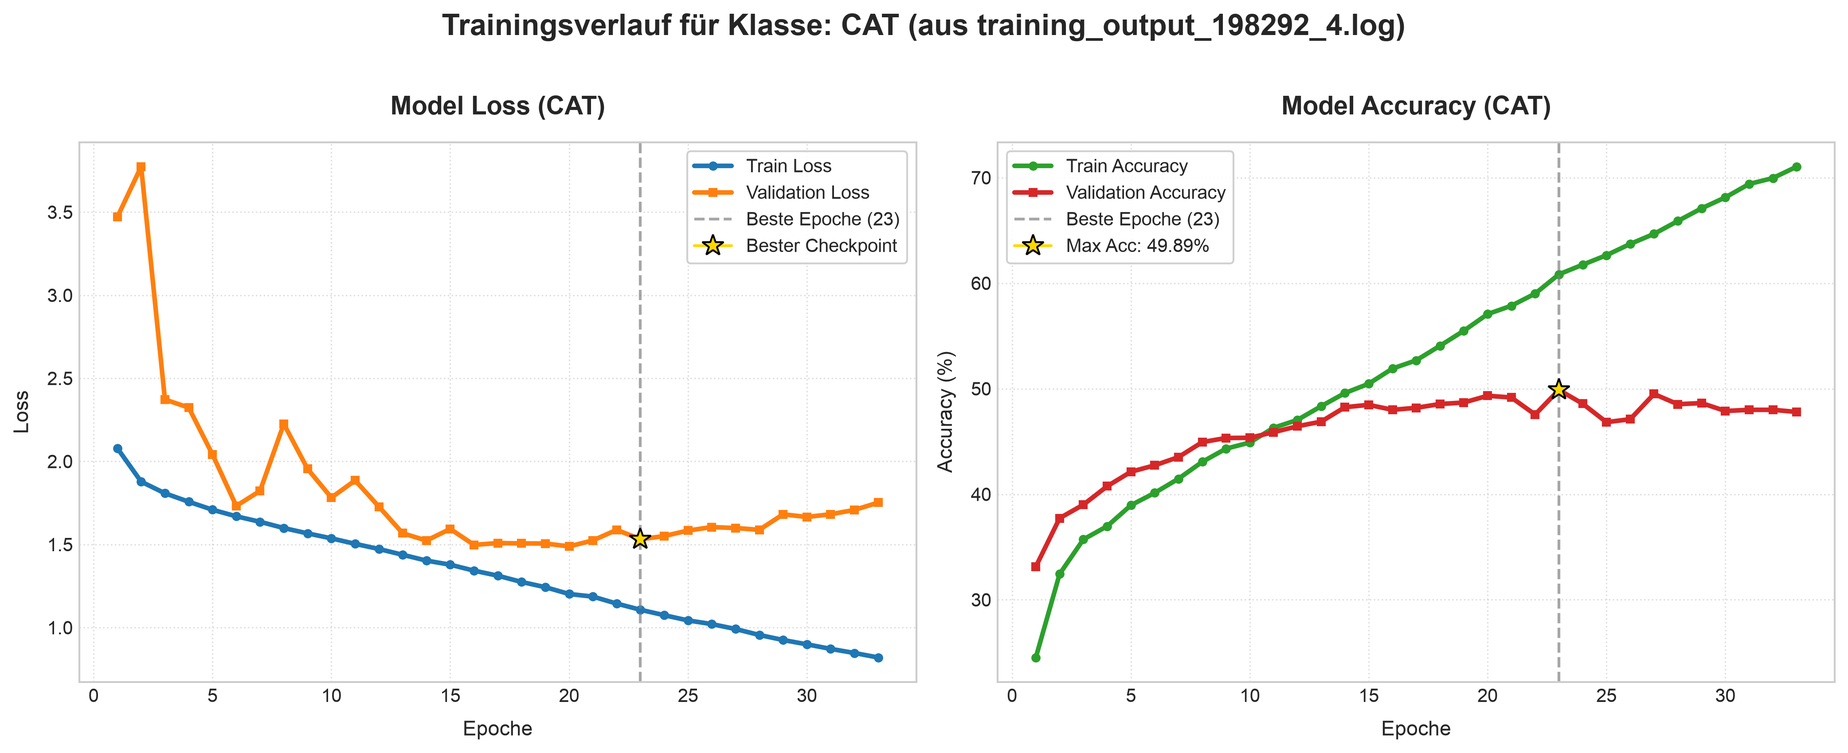
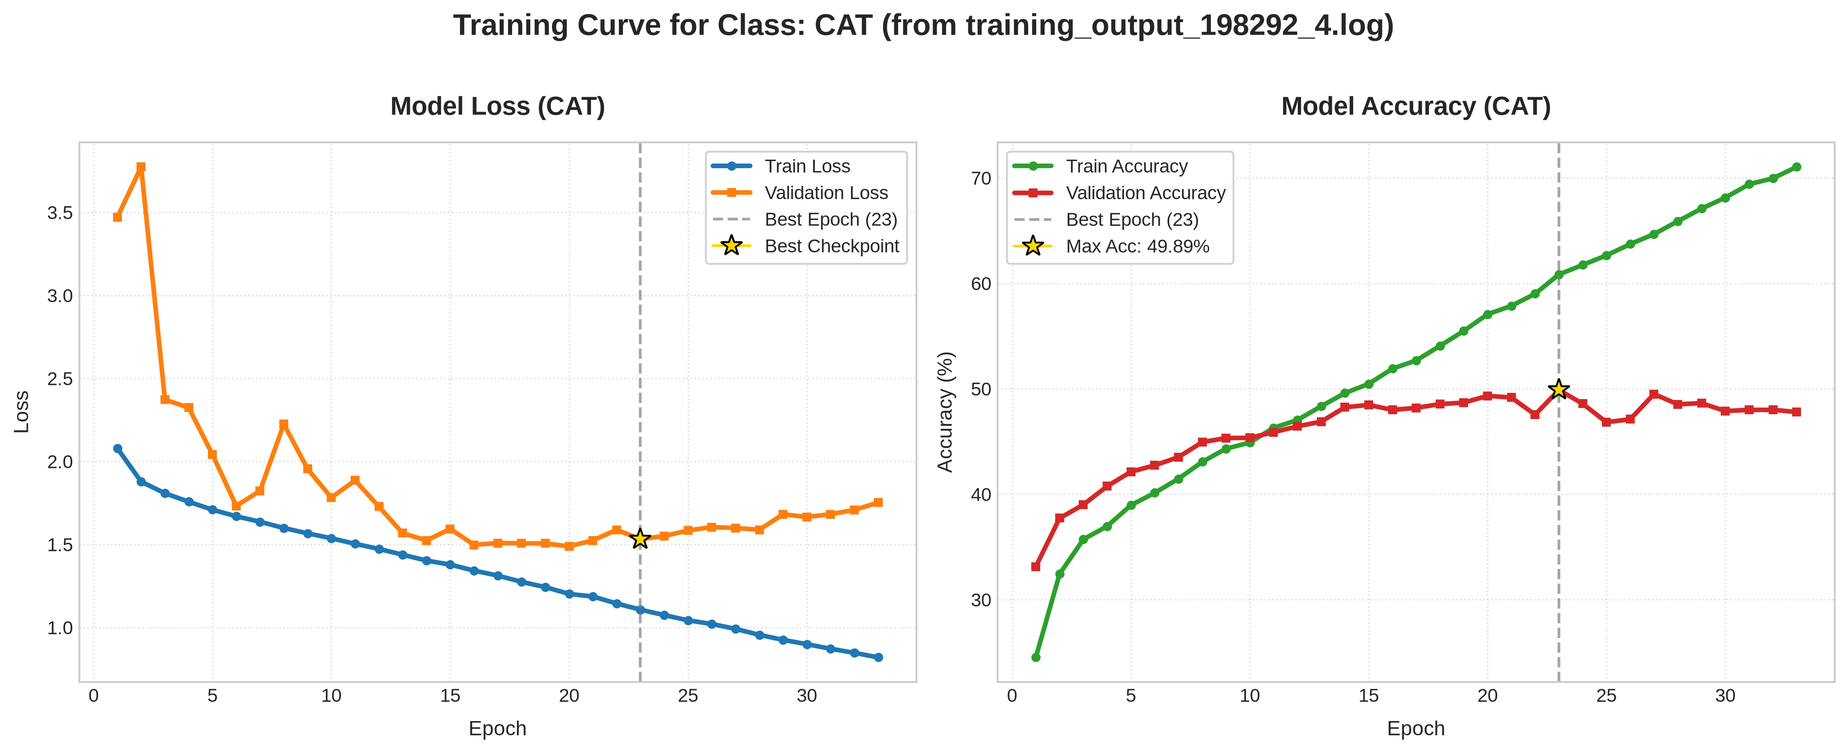
updating EpochLossGraphs for Appendix

diff --git a/Final_Report/sec/test.tex b/Final_Report/sec/test.tex
@@ -1,60 +1,2 @@
-
-1. CONTRADICTION — Final_Report/sec/00_abstract.tex:2 first presents secondary-animal zero masking as part of the implemented pipeline, and the claim is repeated in Final_Report/sec/01_introduction.tex:12-16, Final_Report/sec/03_method.tex:77-84, Final_Report/sec/04_experiments.tex:132, and Final_Report/sec/05_conclusion.tex:4. In the submitted implementation, however, the entire masking block is commented out in Final_Project/detector.py:131-146, so the essay should state that masking was tested but is disabled in the submitted pipeline, or write the code to re enable it at users choice.
---Done
-
-2. METHODOLOGICAL OVERCLAIM — Final_Report/sec/00_abstract.tex:2 first says Grad-CAM confirms that spatial masking suppresses shortcut learning, with related claims in Final_Report/sec/01_introduction.tex:19 and Final_Report/sec/02_related_work.tex:22. Final_Project/generate_xai_panel.py:158-176 sends the original resized image directly to a classifier without YOLO cropping or masking, so these visualizations can diagnose classifier attention but cannot establish the causal effect of the disabled masking intervention; this limited interpretation agrees with Grad-CAM's stated purpose at https://arxiv.org/abs/1610.02391.
---Ignore
-
-3. UNSURE — Final_Report/sec/00_abstract.tex:2 first reports 92.35 percent overall accuracy, and Final_Report/sec/04_experiments.tex:102-119 and Final_Report/sec/05_conclusion.tex:11 report 92.35 percent end-to-end accuracy and macro F1 0.924. No evaluation log, or deterministic evaluation script was found that reproduces these values ?
---> pth eval files
-
-4. INTERNAL AND CODE CONTRADICTION — Final_Report/sec/01_introduction.tex:12 first says image rejection is delegated to detector thresholding, and Final_Report/sec/04_experiments.tex:129 says detections below a confidence threshold are rejected, while Final_Report/sec/03_method.tex:87 explicitly says the operational system uses no classification confidence rejection threshold. Final_Project/detector.py:112-129 reads detector confidence but never compares it with a project-level threshold, so the essay should distinguish any threshold internal to YOLOv6 inference from application-level rejection and should not claim a submitted threshold rule that the code does not implement.
--- wrong
-
-
-5. UNSURE — Final_Report/sec/01_introduction.tex:22 says all trained checkpoints and reproducibility scripts are publicly available, but  cat_scratch.pth and  dog_scratch.pth are not present,nor does it state where those files can be downloaded. README should provide stable checkpoint URLs and hashes, or narrow the claim to what actually distributed.
---> gitignore but uploaded!
-
-6. UNSURE — Final_Report/sec/03_method.tex:64 calls 15 and 16 COCO category IDs, whereas Final_Project/detector.py:39-41 uses them as zero-based YOLOv6 class indices. The values are correct for cat and dog in YOLOv6's zero-based class list, so this is terminology ambiguity rather than a demonstrated pipeline error; write "zero-based YOLOv6 COCO class indices 15 and 16" and cite https://github.com/meituan/YOLOv6/blob/main/data/coco.yaml.
---rewrote
-
-7. MATH DESCRIPTION ERROR — Final_Report/sec/03_method.tex:80-84 uses a universal condition in the masking equation, which zeros a pixel only when it belongs to every secondary box. The surrounding prose clearly intends the union of secondary detections, so the condition should use an existential statement, meaning that there exists a secondary box j not equal to the selected target i star that contains the pixel.
---good spot
-
-8. CONTRADICTION — Final_Report/sec/03_method.tex:116-139 presents a taxonomy containing classes such as Persian and Afghan Hound, but Final_Project/train.py:23-24 and AnimalRecognitionChallenge/inference.py:47-67 define the submitted taxonomy with classes including Ragdoll, Sphynx, Pug, Shiba Inu, Samoyed, and Rottweiler. Table 1 should use the exact inference mapping.
---> good spot
-
-9. FOR THE SUBMITTED TRAINER; UNSURE FOR UNRETAINED PREPROCESSING — Final_Report/sec/03_method.tex:150 and Final_Report/sec/04_experiments.tex:29 claim a stratified 80/20 split with perceptual-hash duplicate control, but Final_Project/train.py:253-257 performs an unseeded random shuffle and slice separately for each species, and no perceptual-hashing implementation or split manifest was found. 
---> ignore
-
-10. UNSURE, DESCRIPTION MISMATCH — Final_Report/sec/03_method.tex:152 and Final_Report/sec/03_method.tex:187 describe random horizontal flipping with p=0.5 and Gaussian blur with p=0.2, but Final_Project/train.py:65-70 appends one transformed copy for every source image whenever an augmentation flag is enabled. Unless a different retained trainer generated the reported runs, mirror, blur, and CropMix should be described as dataset-expansion modes rather than per-sample Bernoulli transforms.
--- args
-
-11. MATH DESCRIPTION ERROR — Final_Report/sec/03_method.tex:152 says CropMix selects an area fraction r uniformly between 0.6 and 0.9, but Final_Project/train.py:104-105 applies r independently as the crop's width fraction and height fraction. The area fraction is r squared, from 0.36 to 0.81.
---done
-
-12. IMPLEMENTATION CONTRADICTION — Final_Report/sec/03_method.tex:165 and Final_Report/sec/04_experiments.tex:212 claim cosine annealing from 1e-3 to 1e-6, but Final_Project/train.py:275-276 omits eta_min and therefore uses PyTorch's default of zero. The shell scripts also pass several starting learning rates rather than one universal value, so the essay should report the actual starting rate for each cited run and cosine annealing toward zero, as documented at https://docs.pytorch.org/docs/stable/generated/torch.optim.lr_scheduler.CosineAnnealingLR.html.
---> done
-
-13. UNSURE — Final_Report/sec/04_experiments.tex:65 says the epoch sweep used 100, 1000, 3000 epochs, while Final_Project/run_training.sh:18-64 and Final_Project/run_training_data.sh:18-65 contain configured runs of 100, 200, 1000, 10000 epochs, but no 3000 epoch command. A 3000 epoch run could have been launched manually? 
---> multiple runs... ignore
-
-14. DESCRIPTION-IMPLEMENTATION MISMATCH — Final_Report/sec/04_experiments.tex:68 lists rotation among the active species-classifier augmentations, but no rotation operation exists in Final_Project/train.py. Rotation should be removed from the description of the submitted trainer.
---> deleted as not suffiecient and basic bug
-
-15. CONTRADICTION — Final_Report/sec/04_experiments.tex:71 says training also stops when the train-validation accuracy gap exceeds 7 percent, but Final_Project/train.py:199-218 implements only patience-based stopping when validation accuracy fails to improve. The 7 percent rule should be removed, labeled as manual monitoring, or implemented and tied to the reported runs.
---> ignore
-
-16. CONTRADICTION — Final_Report/sec/04_experiments.tex:132 says masking is bypassed when a secondary animal occupies more than 40 percent of the crop, but Final_Project/detector.py contains no overlap-ratio calculation or 40 percent condition and its masking code is disabled. This rule should be removed from the implemented-method description or clearly labeled as proposed work.
---> ignore
-
-17. FIGURE-CAPTION ERROR — Final_Report/sec/04_experiments.tex:149-154 says Figure 4 shows a non-Pug target predicted as Pug with 87.66 percent confidence, but Figure 4 in final_paper.pdf page 7 labels the example "GT: Pug, Pred: Samoyed (85.6%)" it looks more like Pug occlusion example in Figure 7 .
-
-18. UNSURE — Final_Report/sec/04_experiments.tex:174-179 gives stage times of 8.12+ 112.45+ 14.30+ 65.76 = 200.63 ms, while Final_Report/sec/04_experiments.tex:190-193 presents pie-chart values of 5.18 + 4.65 + 166.12 + 24.64 = 200.59 ms. The difference can be rounding or process gaps, but the different stage allocation is unexplained and may represent two profiling protocols; the essay should identify the protocol and hardware for each chart or retain only one verified chart with consistent labels.
--- done
-
-19. NOT A CONTRADICTION — Final_Report/sec/04_experiments.tex:212 correctly states that PyTorch 2.6 changed the default behavior of torch.load, and Final_Project/animalClassifier.py:31 explicitly uses weights_only=False. The technical statement should remain, but the essay should replace or supplement the older generic PyTorch citation with https://docs.pytorch.org/docs/stable/notes/serialization.html and state that weights_only=False is appropriate only for trusted checkpoint files.
--- done
-
-20. NOT A CONTRADICTION — Final_Report/main.bib:113-117 cites MegaDetector V6 from Microsoft AI for Good Lab, and current official Microsoft documentation confirms MegaDetectorV6 at https://microsoft.github.io/MegaDetector/ and lists its variants at https://microsoft.github.io/MegaDetector/model_zoo/. The earlier concern resulted from checking the legacy agentmorris repository; the bibliography entry is substantively valid, although it should include the official URL and an access date or cite the specific release artifact required by the report style.
--- done 
+\section{Test}
+\label{sec:test}

diff --git a/Final_Report/sec/06_appendixx.tex b/Final_Report/sec/06_appendixx.tex
@@ -1,8 +1,4 @@
-\section{Appendix}
-\label{sec:appendix}
-
-\subsection{Author Contributions}
-\label{sec:contributions}
+\subsection{Contribution}
 
 To ensure full transparency, the individual contributions of each team member are detailed below:
 
@@ -65,12 +61,37 @@ To ensure full transparency, the individual contributions of each team member ar
         \end{itemize}
     \end{itemize}
 
-    \item \textbf{Ivan Kazakov:}
+
     \begin{itemize}
-        \item Handled data acquisition for the largest dataset in Kaggle.
-        \item Coded the initial model for EfficientNetV2-S and conducted related research \cite{tan2021efficientnetv2}.
-        \item Handled data acquisition, dataset cleaning, and the preprocessing pipeline.
-        \item Co-wrote the final paper section for the Detector and Animal Classifier \cite{li2022yolov6}.
+        \item \textbf{Ivan Kazakov:}
+        \begin{itemize}
+            \item \textbf{Dataset Acquisition \& Curation:}
+            \begin{itemize}
+                \item Sourced core breed datasets after the initial API approach proved insufficient: the Kaggle cat-breed dataset ($\sim$1,000 images/class), the Tsinghua Dogs dataset, and a Dalmatian subset from an additional Kaggle dog dataset.
+                \item Assembled and published the merged $\sim$26k-image / 20-class training dataset on Kaggle.
+            \end{itemize}
+            \item \textbf{Training Pipeline \& Scaling:}
+            \begin{itemize}
+                \item Collaborated on the EfficientNetV2-S training pipeline development.
+                \item Scaled training infrastructure from a single P100 to 2x T4 GPUs using DataParallel; identified, diagnosed, and mitigated CPU-side image decoding bottlenecks.
+            \end{itemize}
+            \item \textbf{Model Development \& Experiments:}
+            \begin{itemize}
+                \item Trained the combined 20-class model achieving 84.9\% test accuracy (macro F1 0.829) with pretrained initialization, as well as the required from-scratch baseline (80 epochs, 78.1\% / 0.752), providing the comparative results for the report.
+                \item Co-implemented the species-split architecture (separate cat and dog models via class presets) and analyzed the dogs-vs-cats transfer asymmetry alongside its ImageNet class-composition background.
+                \item Evaluated a community cat-breed checkpoint as an alternative initialization strategy and integrated a robust checkpoint-format loader.
+            \end{itemize}
+            \item \textbf{System Integration \& Inference:}
+            \begin{itemize}
+                \item Supported the end-to-end evaluation and error analysis framework that contributed to securing the group's first-place challenge submission (73.28\%).
+            \end{itemize}
+            \item \textbf{Report \& Presentation:}
+            \begin{itemize}
+                \item Delivered presentation segments covering data acquisition, training setups, and the pretrained-vs-scratch comparison; produced corresponding training-curve and performance comparison figures.
+                \item Cowrote the System Architecture, Classification Model, and Integration Findings part of the final paper in the experiments and Related Work section
+                \item Published both pipeline editions (combined and species-split) as fully documented repositories and notebooks.
+            \end{itemize}
+        \end{itemize}
     \end{itemize}
 
     \item \textbf{Huang Ziyang:}
@@ -81,12 +102,128 @@ To ensure full transparency, the individual contributions of each team member ar
         \item Created first Draft of the README.md
     \end{itemize}
 \end{itemize}
+%
 
 \subsection{Code and Environment Reproducibility}
 \label{sec:code_reproducibility}
 
 The complete source code, trained model checkpoints, and inference scripts are hosted in our repository:
 \begin{center}
-    \url{https://github.com/your-org/your-repo}
+    \href{https://github.com/NordlichtS/CVDL26-drop-table-catdogs}{CVDL26-drop-table-catdogs}
 \end{center}
 Please refer to the repository README file for environment setup instructions and data preparation steps.
+
+
+\subsection{Detailed Training History Curves}
+\label{sec:appendix_curves}
+
+This appendix presents the full training and validation loss alongside accuracy progression curves across all seven experimental configurations for both Cat and Dog datasets.
+
+\begin{figure*}[htbp]
+    \centering
+    % Task 1: Baseline (Standard)
+    \begin{subfigure}[b]{0.48\textwidth}
+        \centering
+        \includegraphics[width=\textwidth]{../Epoch/loss_Graphs/training_output_198292_1_dog.png}
+        \caption{Task 1: Dog Baseline ($\text{LR}=1\times 10^{-5}$, 100 Ep.)}
+    \end{subfigure}
+    \hfill
+    \begin{subfigure}[b]{0.48\textwidth}
+        \centering
+        \includegraphics[width=\textwidth]{../Epoch/loss_Graphs/training_output_198292_1_cat.png}
+        \caption{Task 1: Cat Baseline ($\text{LR}=1\times 10^{-5}$, 100 Ep.)}
+    \end{subfigure}
+    
+    \vspace{0.3cm}
+    
+    % Task 2: Balanced Weights
+    \begin{subfigure}[b]{0.48\textwidth}
+        \centering
+        \includegraphics[width=\textwidth]{../Epoch/loss_Graphs/training_output_198292_2_dog.png}
+        \caption{Task 2: Dog Balanced Weights ($\text{LR}=1\times 10^{-5}$, 100 Ep.)}
+    \end{subfigure}
+    \hfill
+    \begin{subfigure}[b]{0.48\textwidth}
+        \centering
+        \includegraphics[width=\textwidth]{../Epoch/loss_Graphs/training_output_198292_2_cat.png}
+        \caption{Task 2: Cat Balanced Weights ($\text{LR}=1\times 10^{-5}$, 100 Ep.)}
+    \end{subfigure}
+
+    \vspace{0.3cm}
+
+    % Task 3: Blur
+    \begin{subfigure}[b]{0.48\textwidth}
+        \centering
+        \includegraphics[width=\textwidth]{../Epoch/loss_Graphs/training_output_198292_3_dog.png}
+        \caption{Task 3: Dog Blur ($\text{LR}=1\times 10^{-5}$, 100 Ep., $82.96\%$)}
+    \end{subfigure}
+    \hfill
+    \begin{subfigure}[b]{0.48\textwidth}
+        \centering
+        \includegraphics[width=\textwidth]{../Epoch/loss_Graphs/training_output_198292_3_cat.png}
+        \caption{Task 3: Cat Blur ($\text{LR}=1\times 10^{-5}$, 100 Ep., $47.13\%$)}
+    \end{subfigure}
+
+    \vspace{0.3cm}
+
+    % Task 4: Mirror
+    \begin{subfigure}[b]{0.48\textwidth}
+        \centering
+        \includegraphics[width=\textwidth]{../Epoch/loss_Graphs/training_output_198292_4_dog.png}
+        \caption{Task 4: Dog Mirror ($\text{LR}=1\times 10^{-5}$, 100 Ep.)}
+    \end{subfigure}
+    \hfill
+    \begin{subfigure}[b]{0.48\textwidth}
+        \centering
+        \includegraphics[width=\textwidth]{../Epoch/loss_Graphs/training_output_198292_4_cat.png}
+        \caption{Task 4: Cat Mirror ($\text{LR}=1\times 10^{-5}$, 100 Ep., $49.89\%$)}
+    \end{subfigure}
+
+    \vspace{0.3cm}
+
+    % Task 5: CropMix
+    \begin{subfigure}[b]{0.48\textwidth}
+        \centering
+        \includegraphics[width=\textwidth]{../Epoch/loss_Graphs/training_output_198292_5_dog.png}
+        \caption{Task 5: Dog CropMix ($\text{LR}=1\times 10^{-5}$, 100 Ep., $84.99\%$)}
+    \end{subfigure}
+    \hfill
+    \begin{subfigure}[b]{0.48\textwidth}
+        \centering
+        \includegraphics[width=\textwidth]{../Epoch/loss_Graphs/training_output_198292_5_cat.png}
+        \caption{Task 5: Cat CropMix ($\text{LR}=1\times 10^{-5}$, 100 Ep.)}
+    \end{subfigure}
+
+    \vspace{0.3cm}
+
+    % Task 6: All Augmentations Combined
+    \begin{subfigure}[b]{0.48\textwidth}
+        \centering
+        \includegraphics[width=\textwidth]{../Epoch/loss_Graphs/training_output_198292_6_dog.png}
+        \caption{Task 6: Dog All Augs ($\text{LR}=1\times 10^{-5}$, 100 Ep.)}
+    \end{subfigure}
+    \hfill
+    \begin{subfigure}[b]{0.48\textwidth}
+        \centering
+        \includegraphics[width=\textwidth]{../Epoch/loss_Graphs/training_output_198292_6_cat.png}
+        \caption{Task 6: Cat All Augs ($\text{LR}=1\times 10^{-5}$, 100 Ep., $53.73\%$)}
+    \end{subfigure}
+
+    \vspace{0.3cm}
+
+    % Task 7: Long Run Baseline
+    \begin{subfigure}[b]{0.48\textwidth}
+        \centering
+        \includegraphics[width=\textwidth]{../Epoch/loss_Graphs/training_output_198292_7_dog.png}
+        \caption{Task 7: Dog Extended Baseline ($\text{LR}=5\times 10^{-6}$, 1000 Ep., $78.66\%$)}
+    \end{subfigure}
+    \hfill
+    \begin{subfigure}[b]{0.48\textwidth}
+        \centering
+        \includegraphics[width=\textwidth]{../Epoch/loss_Graphs/training_output_198292_7_cat.png}
+        \caption{Task 7: Cat Extended Baseline ($\text{LR}=5\times 10^{-6}$, 1000 Ep., $46.13\%$)}
+    \end{subfigure}
+    
+    \caption{Comprehensive comparison of training loss and accuracy dynamics across all Cat and Dog classification runs (Tasks 1--7) under various augmentation strategies and learning rates (all models trained from uninitialized weights).}
+    \label{fig:appendix_training_curves}
+\end{figure*}

diff --git a/Final_Project/graph_loss_epoch.py b/Final_Project/graph_loss_epoch.py
@@ -8,7 +8,8 @@ output_folder = os.path.join("Epoch", "loss_Graphs")
 os.makedirs(output_folder, exist_ok=True)
 
 # 2. Alle Logdateien im aktuellen Ordner suchen, die mit "training_output_" anfangen
-log_files = [f for f in os.listdir('./') if f.startswith('training_output_') and f.endswith('.log')]
+# In Zeile 11:
+log_files = [f for f in os.listdir('./TrainingLogs') if f.startswith('training_output_') and f.endswith('.log')]
 
 if not log_files:
     print("Keine Logdateien mit dem Präfix 'training_output_' im aktuellen Ordner gefunden.")
@@ -32,7 +33,8 @@ print(f"Gefundene Logdateien: {log_files}\nStarte Verarbeitung...")
 
 for log_file in log_files:
     # Dateiinhalt einlesen
-    with open(log_file, 'r', encoding='utf-8') as f:
+
+    with open(os.path.join('./TrainingLogs', log_file), 'r', encoding='utf-8') as f:
         content = f.read()
     
     matches = pattern.findall(content)
@@ -79,11 +81,11 @@ for log_file in log_files:
         best_val_acc = df.loc[best_val_idx, 'val_acc']
         
         # Beste Epoche als vertikale Linie und goldener Stern einzeichnen (Präsentations-Tipp 2)
-        ax1.axvline(x=best_epoch, color='gray', linestyle='--', alpha=0.7, label=f'Beste Epoche ({best_epoch})')
-        ax1.plot(best_epoch, best_val_loss, marker='*', markersize=12, color='gold', markeredgecolor='black', label='Bester Checkpoint')
+        ax1.axvline(x=best_epoch, color='gray', linestyle='--', alpha=0.7, label=f'Best Epoch ({best_epoch})')
+        ax1.plot(best_epoch, best_val_loss, marker='*', markersize=12, color='gold', markeredgecolor='black', label='Best Checkpoint')
         
         ax1.set_title(f"Model Loss ({species})", fontsize=14, fontweight='bold', pad=15)
-        ax1.set_xlabel("Epoche", fontsize=11, labelpad=8)
+        ax1.set_xlabel("Epoch", fontsize=11, labelpad=8)
         ax1.set_ylabel("Loss", fontsize=11, labelpad=8)
         ax1.legend(frameon=True, facecolor='white', framealpha=0.9, fontsize=10)
         ax1.grid(True, linestyle=":", alpha=0.6)
@@ -92,16 +94,16 @@ for log_file in log_files:
         ax2.plot(df['epoch'], df['train_acc'], label="Train Accuracy", color=colors['train_acc'], linewidth=2.5, marker='o', markersize=4)
         ax2.plot(df['epoch'], df['val_acc'], label="Validation Accuracy", color=colors['val_acc'], linewidth=2.5, marker='s', markersize=4)
         
-        ax2.axvline(x=best_epoch, color='gray', linestyle='--', alpha=0.7, label=f'Beste Epoche ({best_epoch})')
+        ax2.axvline(x=best_epoch, color='gray', linestyle='--', alpha=0.7, label=f'Best Epoch ({best_epoch})')
         ax2.plot(best_epoch, best_val_acc, marker='*', markersize=12, color='gold', markeredgecolor='black', label=f'Max Acc: {best_val_acc:.2f}%')
         
         ax2.set_title(f"Model Accuracy ({species})", fontsize=14, fontweight='bold', pad=15)
-        ax2.set_xlabel("Epoche", fontsize=11, labelpad=8)
+        ax2.set_xlabel("Epoch", fontsize=11, labelpad=8)
         ax2.set_ylabel("Accuracy (%)", fontsize=11, labelpad=8)
         ax2.legend(frameon=True, facecolor='white', framealpha=0.9, fontsize=10)
         ax2.grid(True, linestyle=":", alpha=0.6)
         
-        plt.suptitle(f"Trainingsverlauf für Klasse: {species} (aus {log_file})", fontsize=16, fontweight='bold', y=1.02)
+        plt.suptitle(f"Training Curve for Class: {species} (from {log_file})", fontsize=16, fontweight='bold', y=1.02)
         plt.tight_layout()
         
         # Dynamisch im Zielordner speichern

diff --git a/Final_Report/main.tex b/Final_Report/main.tex
@@ -54,7 +54,6 @@ Marc Koester\\
 \input{sec/04_experiments}
 \input{sec/05_conclusion}
 
-
 {
     \small
     \bibliographystyle{ieeenat_fullname}
@@ -64,61 +63,8 @@ Marc Koester\\
 \clearpage
 \appendix
 
-\section{Contribution}
-\label{sec:06_appendixx}
+\section{Appendix}
+\label{sec:appendix}
 \input{sec/06_appendixx}
-
-\section{Detailed Training History Curves}
-\label{sec:appendix_curves}
-
-This appendix presents the full training and validation loss alongside accuracy progression curves across all seven experimental configurations for both Cat and Dog datasets.
-
-\begin{figure*}[htbp]
-    \centering
-    \begin{subfigure}[b]{0.48\textwidth}
-        \centering
-        \includegraphics[width=\textwidth]{../L_A_Graphs/training_output_198292_7_dog.png}
-        \caption{Task 7: Dog Baseline ($78.66\%$)}
-    \end{subfigure}
-    \hfill
-    \begin{subfigure}[b]{0.48\textwidth}
-        \centering
-        \includegraphics[width=\textwidth]{../L_A_Graphs/training_output_198292_7_cat.png}
-        \caption{Task 7: Cat Baseline ($46.13\%$)}
-    \end{subfigure}
-    
-    \vspace{0.3cm}
-    
-    \begin{subfigure}[b]{0.48\textwidth}
-        \centering
-        \includegraphics[width=\textwidth]{../L_A_Graphs/training_output_198292_3_dog.png}
-        \caption{Task 3: Dog Blur ($82.96\%$)}
-    \end{subfigure}
-    \hfill
-    \begin{subfigure}[b]{0.48\textwidth}
-        \centering
-        \includegraphics[width=\textwidth]{../L_A_Graphs/training_output_198292_3_cat.png}
-        \caption{Task 3: Cat Blur ($47.13\%$)}
-    \end{subfigure}
-
-    \vspace{0.3cm}
-    
-    \begin{subfigure}[b]{0.48\textwidth}
-        \centering
-        \includegraphics[width=\textwidth]{../L_A_Graphs/training_output_198292_5_dog.png}
-        \caption{Task 5: Dog CropMix ($84.99\%$)}
-    \end{subfigure}
-    \hfill
-    \begin{subfigure}[b]{0.48\textwidth}
-        \centering
-        \includegraphics[width=\textwidth]{../L_A_Graphs/training_output_198292_4_cat.png}
-        \caption{Task 4: Cat Mirror ($49.89\%$)}
-    \end{subfigure}
-    
-    \caption{Comparison of training loss and accuracy dynamics across Cat and Dog classification runs under different augmentation strategies when trained from uninitialized weights.}
-    \label{fig:appendix_training_curves}
-\end{figure*}
-% supplementary material
-% \input{sec/X_suppl}
 
 \end{document}

diff --git a/Final_Report/sec/03_method.tex b/Final_Report/sec/03_method.tex
@@ -117,9 +117,9 @@ The final assembled dataset comprises $N = 35,423$ images spanning 20 target bre
     2 & Birman & Oxford-IIIT & 1,152 & 288 & 1,440 \\
     3 & Bombay & Oxford-IIIT / Kaggle & 1,120 & 280 & 1,400 \\
     4 & British Shorthair & Oxford-IIIT & 1,208 & 302 & 1,510 \\
-    5 & Egyptian Mau & Oxford-IIIT & 1,096 & 274 & 1,370 \\
+    5 & Ragdoll & Oxford-IIIT & 1,096 & 274 & 1,370 \\
     6 & Maine Coon & Oxford-IIIT & 1,232 & 308 & 1,540 \\
-    7 & Persian & Oxford-IIIT & 1,168 & 292 & 1,460 \\
+    7 & Sphynx & Oxford-IIIT & 1,168 & 292 & 1,460 \\
     8 & Tabby Cat & Kaggle / Web Curation & 1,400 & 350 & 1,750 \\
     9 & Tiger Cat & Kaggle / Web Curation & 1,360 & 340 & 1,700 \\
     \midrule

diff --git a/Final_Report/sec/04_experiments.tex b/Final_Report/sec/04_experiments.tex
@@ -56,7 +56,7 @@ Comparing Task 5 (84.99\%) with Task 6 (85.02\%) demonstrates that CropMix accou
 
 \begin{figure}[htbp]
     \centering
-    \includegraphics[width=\columnwidth]{../L_A_Graphs/training_output_198292_5_dog.png}
+    \includegraphics[width=\columnwidth]{../Epoch/loss_Graphs/training_output_198292_5_dog.png}
     \caption{Training and validation progression for the top-performing CropMix configuration (Task 5). The validation loss curve remains stable across 50 epochs, effectively preventing premature overfitting.}
     \label{fig:cropmix_training_curve}
 \end{figure}
